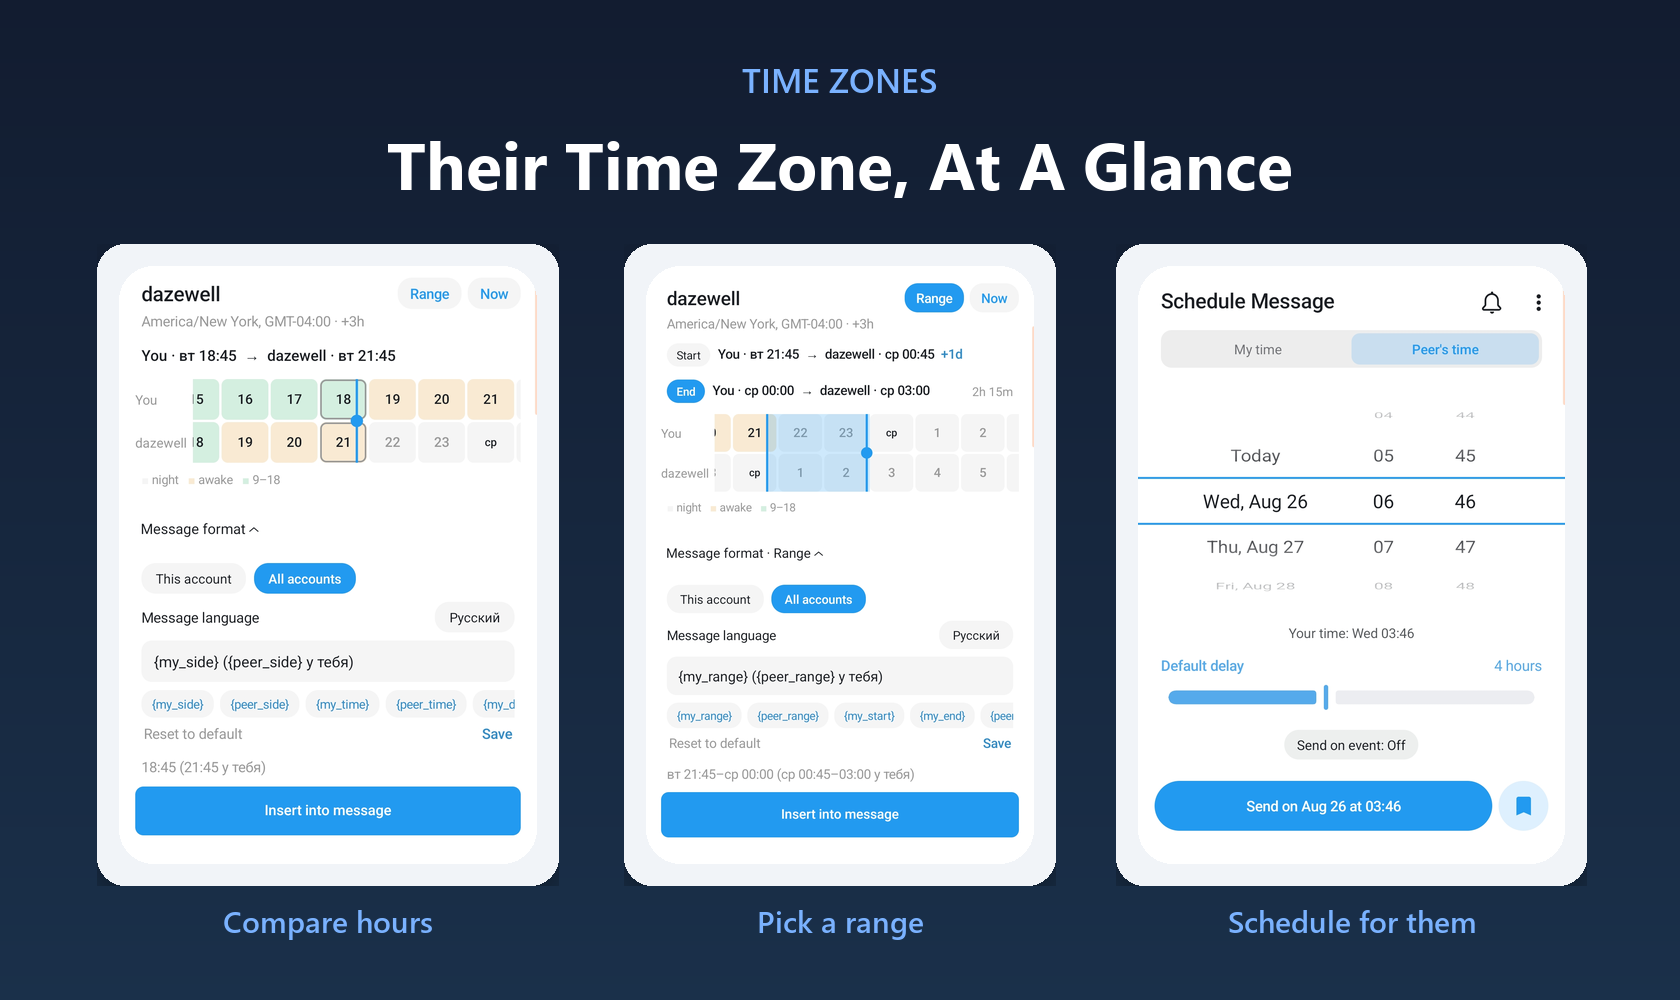
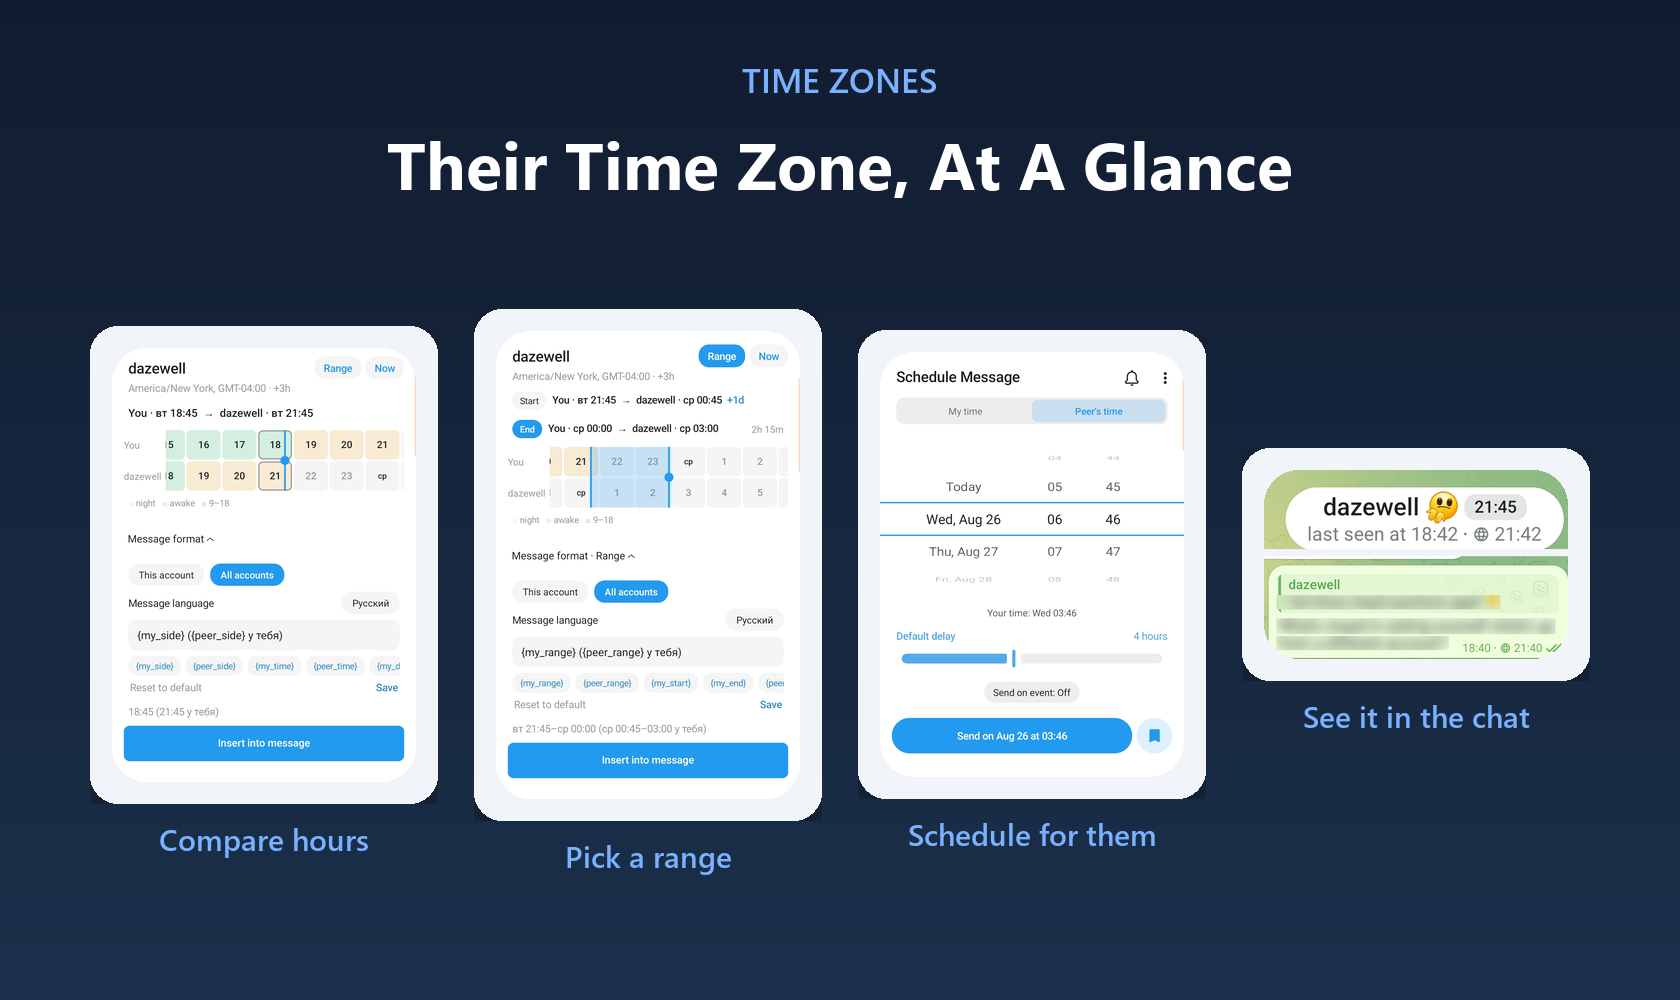
add the in-chat time display as a 4th hero panel #docs

diff --git a/README.md b/README.md
@@ -7,7 +7,7 @@ Dazegram started as a fork of [NagramX](https://github.com/risin42/NagramX), whi
 This README covers the highlights. The full list, with what each one does, is in [FEATURES.md](FEATURES.md).
 
 <p align="center">
-  <img width="640" src="docs/images/hero.png" alt="Three views of Dazegram's time zone tools: comparing hours side by side on an hour grid, picking a time range, and scheduling a message for the other person's time.">
+  <img width="640" src="docs/images/hero.png" alt="Four views of Dazegram's time zone tools: comparing hours side by side on an hour grid, picking a time range, scheduling a message for the other person's time, and the converted time showing up in the chat header and next to a message.">
 </p>
 
 ## Highlights
